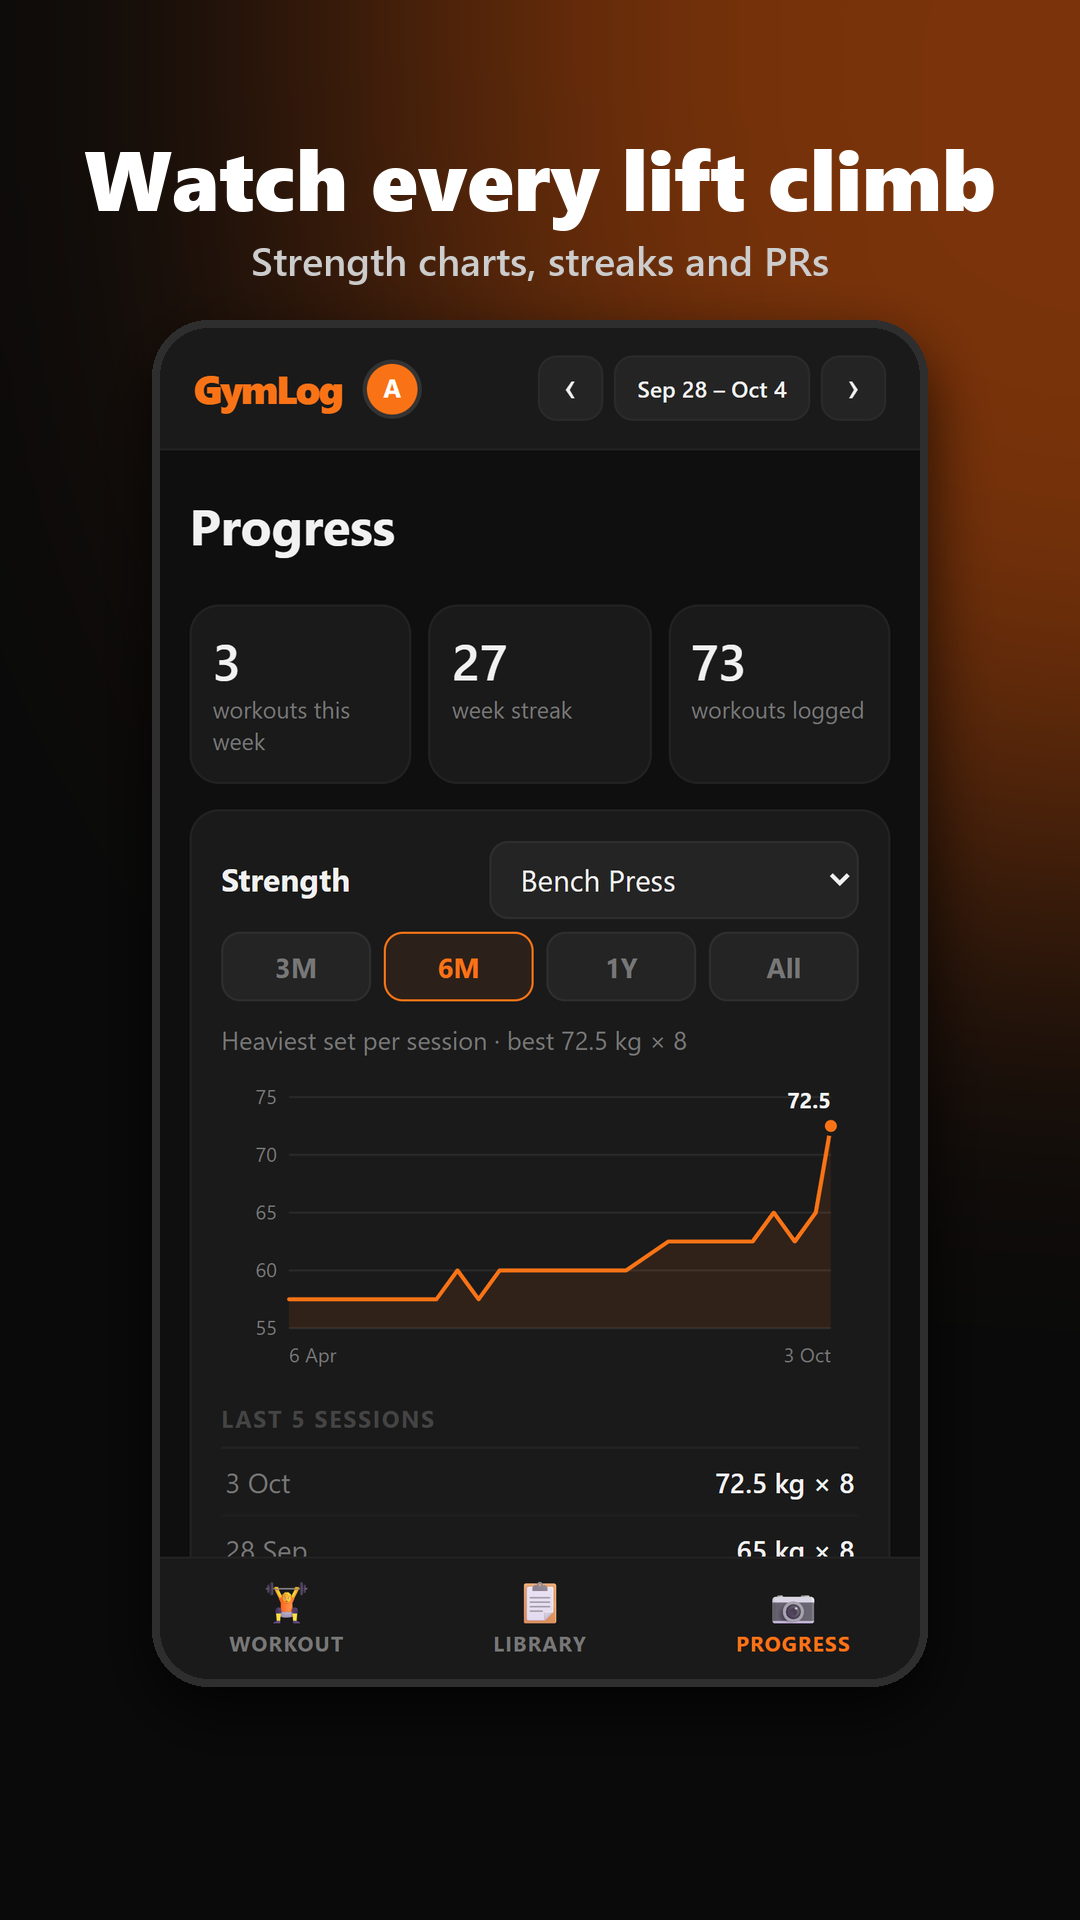
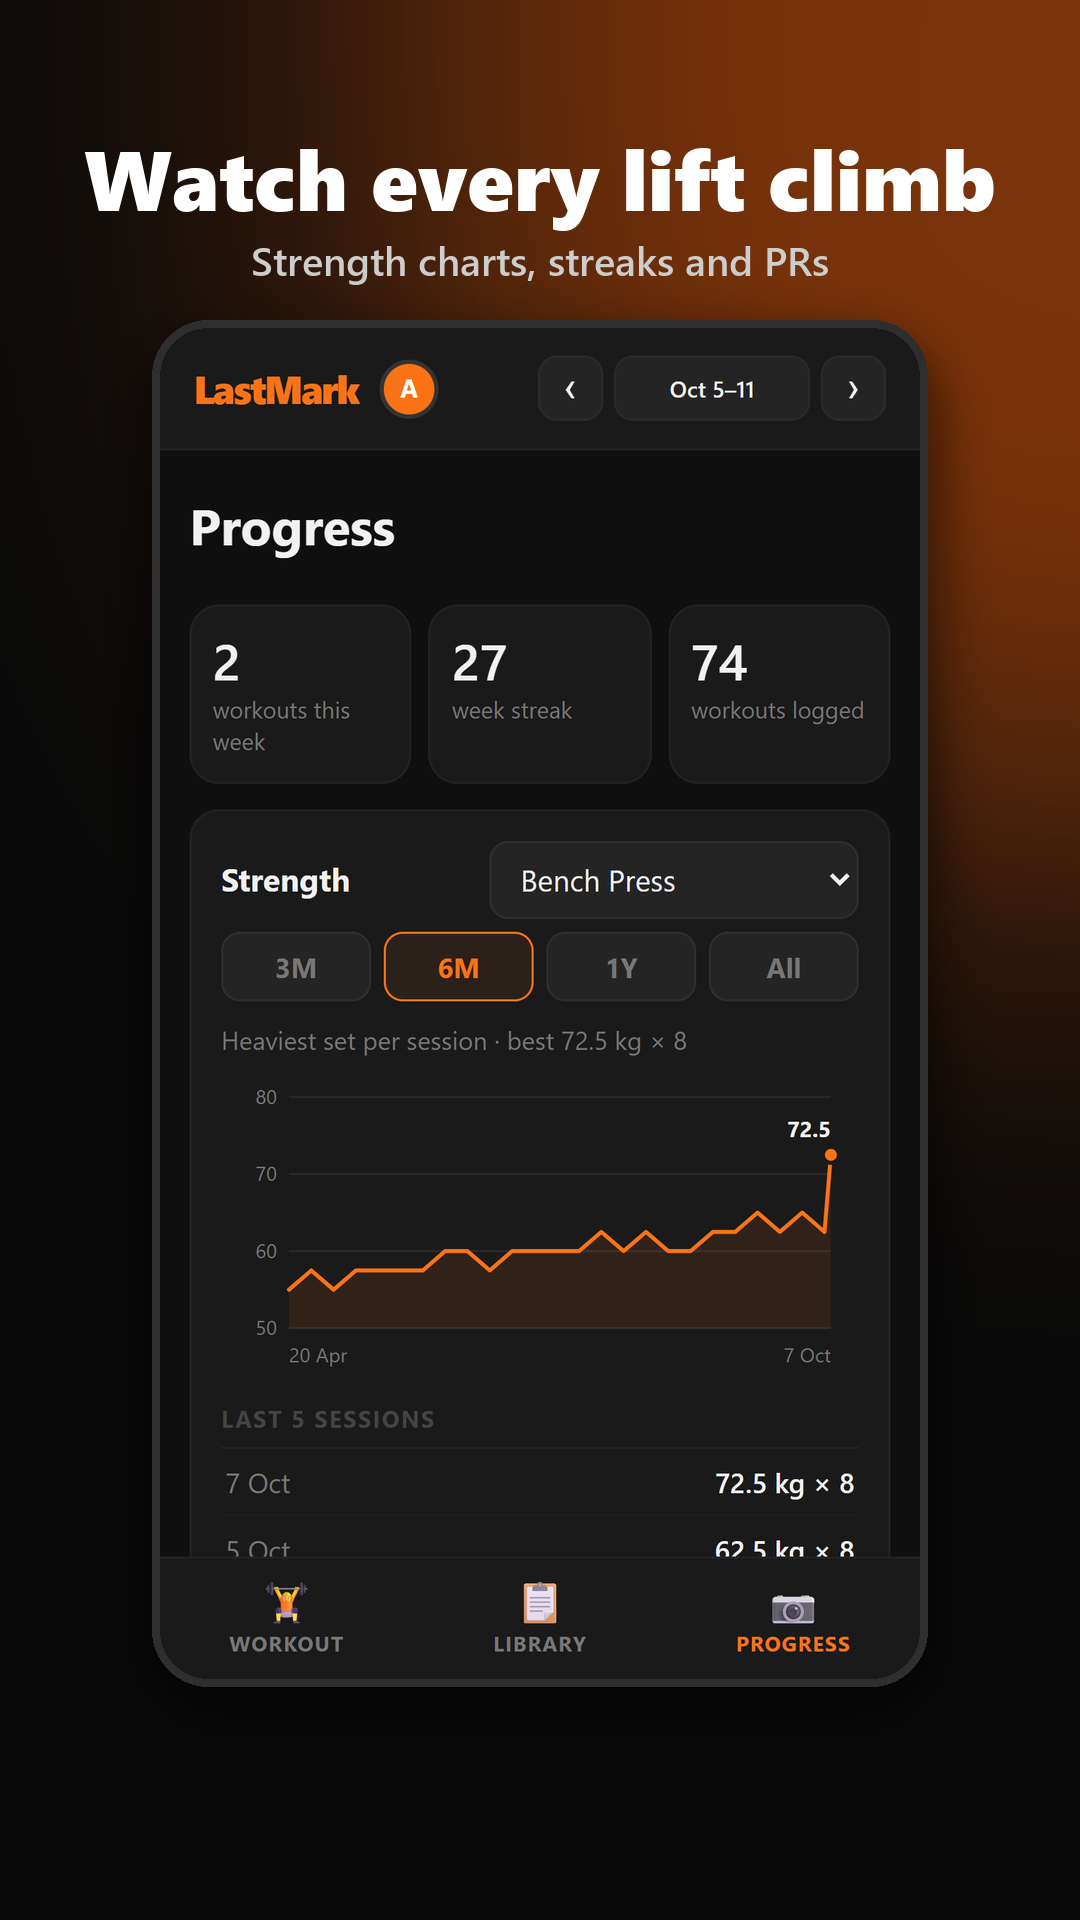
rename app to LastMark

diff --git a/index.html b/index.html
@@ -5,23 +5,23 @@
   <meta name="viewport" content="width=device-width, initial-scale=1.0, maximum-scale=1.0, user-scalable=no, viewport-fit=cover">
   <meta name="apple-mobile-web-app-capable" content="yes">
   <meta name="apple-mobile-web-app-status-bar-style" content="black">
-  <meta name="apple-mobile-web-app-title" content="GymLog">
+  <meta name="apple-mobile-web-app-title" content="LastMark">
   <meta name="theme-color" content="#0f0f0f">
   <link rel="apple-touch-icon" href="apple-touch-icon.png">
   <link rel="icon" type="image/png" sizes="192x192" href="icon-192.png">
   <link rel="manifest" href="manifest.json">
-  <title>GymLog — track your lifts, know what to beat</title>
+  <title>LastMark — track your lifts, know what to beat</title>
   <meta name="description" content="A free workout log that shows what you lifted last time, so you always know what to beat. One-tap routines, personal records and strength charts. Works offline and syncs across your devices.">
   <meta property="og:type" content="website">
-  <meta property="og:site_name" content="GymLog">
-  <meta property="og:title" content="GymLog — know what to beat, every set">
+  <meta property="og:site_name" content="LastMark">
+  <meta property="og:title" content="LastMark — know what to beat, every set">
   <meta property="og:description" content="A free workout log with one-tap routines, personal records and strength charts. Works offline.">
   <meta property="og:url" content="https://gymlog-7z5j.onrender.com/">
   <meta property="og:image" content="https://gymlog-7z5j.onrender.com/og.png">
   <meta property="og:image:width" content="1200">
   <meta property="og:image:height" content="630">
   <meta name="twitter:card" content="summary_large_image">
-  <meta name="twitter:title" content="GymLog — know what to beat, every set">
+  <meta name="twitter:title" content="LastMark — know what to beat, every set">
   <meta name="twitter:description" content="A free workout log with one-tap routines, personal records and strength charts. Works offline.">
   <meta name="twitter:image" content="https://gymlog-7z5j.onrender.com/og.png">
   <style>
@@ -1057,7 +1057,7 @@
 <!-- ── Auth Screen ── -->
 <div class="auth-screen" id="authScreen">
   <div class="auth-inner">
-  <div class="auth-logo">GymLog</div>
+  <div class="auth-logo">LastMark</div>
   <h1 class="auth-headline">Know what to beat,<br>every set.</h1>
   <p class="auth-tagline" id="authTagline">A free workout log that remembers your last session for you.</p>
 
@@ -1119,7 +1119,7 @@
 
   <header>
     <div class="header-left">
-      <span class="logo">GymLog</span>
+      <span class="logo">LastMark</span>
       <img class="user-avatar" id="userAvatar" src="" alt="account" title="Settings">
     </div>
     <div class="week-nav">
@@ -1423,7 +1423,7 @@
 <!-- ── Install Hint ── -->
 <div class="install-hint" id="installHint">
   <button class="install-x" id="btnInstallX" aria-label="Dismiss">✕</button>
-  <h4>Put GymLog on your home screen</h4>
+  <h4>Put LastMark on your home screen</h4>
   <p id="installText"></p>
   <button class="install-go" id="btnInstallGo">Install</button>
 </div>
@@ -1610,7 +1610,7 @@ document.getElementById('btnCloseSettings').addEventListener('click', () => {
 
 // Sign out
 document.getElementById('btnSignOut').addEventListener('click', async () => {
-  if (!confirm('Sign out of GymLog?')) return;
+  if (!confirm('Sign out of LastMark?')) return;
   hide('settingsOverlay');
   flushSaves();
   await signOut(auth);
@@ -2847,7 +2847,7 @@ async function shareTpl(id) {
   track('collection_shared');
   const url = `${location.origin}/?c=${sid}`;
   if (navigator.share) {
-    try { await navigator.share({ title: `${name} — GymLog`, text: `Here's my "${name}" routine on GymLog`, url }); return; }
+    try { await navigator.share({ title: `${name} — LastMark`, text: `Here's my "${name}" routine on LastMark`, url }); return; }
     catch (e) { if (e.name === 'AbortError') return; }
   }
   try { await navigator.clipboard.writeText(url); showToast('Link copied', 'success'); }
@@ -3742,7 +3742,7 @@ function drawStudio(c, data, style, format, photo) {
 
   // ── header: wordmark + date
   const top = P + 52;
-  text('GYMLOG', P, top, anton(54), accent, 'left', 3);
+  text('LASTMARK', P, top, anton(54), accent, 'left', 3);
   text(`${data.weekday.toUpperCase()}  ·  ${data.shortDate.toUpperCase()}`, W - P, top - 4, sans(26, 700), muted, 'right', 2);
 
   // ── blocks are stacked from the bottom up so the photo (or glow) stays visible at the top
@@ -3752,7 +3752,7 @@ function drawStudio(c, data, style, format, photo) {
   const { lifts, more } = data.share;
   let y = H - P;
   if (story) {
-    const left = data.streak >= 2 ? `${data.streak}-WEEK STREAK` : 'TRAINED WITH GYMLOG';
+    const left = data.streak >= 2 ? `${data.streak}-WEEK STREAK` : 'TRAINED WITH LASTMARK';
     text(left, P, y, sans(26, 800), muted, 'left', 3);
     text(location.host, W - P, y, sans(24, 600), muted, 'right');
     y -= 76;
@@ -3871,7 +3871,7 @@ function renderStudio() {
   document.getElementById('studioHint').textContent = {
     dark: 'Ready for your story or feed.',
     orange: 'Ready for your story or feed.',
-    photo: studio.photo ? 'Your photo stays on this phone — it isn’t uploaded to GymLog.' : '',
+    photo: studio.photo ? 'Your photo stays on this phone — it isn’t uploaded to LastMark.' : '',
   }[studio.style];
   try { localStorage.setItem('glog_share_style', JSON.stringify({ style: studio.style, format: studio.format })); } catch (_) {}
 }
@@ -3921,7 +3921,7 @@ document.getElementById('btnStudioShare').addEventListener('click', async () => 
   let blob;
   try { blob = canvasPng(document.getElementById('studioCanvas')); }
   catch (_) { showToast("Couldn't create the image", 'error'); return; }
-  const file = new File([blob], `gymlog-${studio.key}-${studio.style}.png`, { type: 'image/png' });
+  const file = new File([blob], `lastmark-${studio.key}-${studio.style}.png`, { type: 'image/png' });
   if (navigator.canShare && navigator.canShare({ files: [file] })) {
     try { await navigator.share({ files: [file] }); return; }
     catch (e) { if (e.name === 'AbortError') return; }
@@ -4028,13 +4028,13 @@ document.getElementById('btnExport').addEventListener('click', async e => {
   flushSaves();
   const gotAll = await loadAllPhotos();
   const data = {
-    app: 'GymLog', exportedAt: new Date().toISOString(), unit,
+    app: 'LastMark', exportedAt: new Date().toISOString(), unit,
     days: db,
     collections: templates.map(({ id, ...t }) => t),
     photos: photos.map(({ id, ...p }) => p),
     bodyWeight: (await loadBody(), bodyLog),
   };
-  downloadBlob(new Blob([JSON.stringify(data, null, 2)], { type: 'application/json' }), `gymlog-export-${dateKey(new Date())}.json`);
+  downloadBlob(new Blob([JSON.stringify(data, null, 2)], { type: 'application/json' }), `lastmark-export-${dateKey(new Date())}.json`);
   btn.disabled = false; btn.textContent = 'Export My Data';
   showToast(gotAll ? 'Export downloaded' : "Export downloaded — some photos couldn't be loaded", gotAll ? 'success' : 'warn', 4000);
 });
@@ -4044,7 +4044,7 @@ document.getElementById('btnExport').addEventListener('click', async e => {
 // ─────────────────────────────────────────
 const tourKey = () => `glog_tour_done_${currentUid}`;
 const TOUR_STEPS = [
-  { page: 'workout', title: 'Welcome to GymLog 👋',
+  { page: 'workout', title: 'Welcome to LastMark 👋',
     text: 'This tour shows you each part of the app, page by page. It takes about a minute. Use Next and Back to move through it.' },
   { page: 'workout', target: '#dayTabs', title: 'Your week',
     text: 'Each day has its own workout. Tap a day to plan or log it, and use ‹ › at the top to move between weeks. A dot means that day has exercises.' },
@@ -4063,7 +4063,7 @@ const TOUR_STEPS = [
   { page: 'library', target: '#starterWrap .starter-head', title: 'Starter routines',
     text: 'Ready-made routines to get you going. + Add moves one into your collections, and Remove all clears the ones you don’t need.' },
   { page: 'library', target: '#tplList .tpl-card', title: 'Edit and share',
-    text: 'Tap a collection to edit it. The 🔗 button inside creates a link, so a friend can add your routine to their own GymLog.' },
+    text: 'Tap a collection to edit it. The 🔗 button inside creates a link, so a friend can add your routine to their own LastMark.' },
   { page: 'progress', target: '#statRow', title: 'Stay consistent',
     text: 'Workouts this week, how many weeks in a row you’ve trained, and your total. Any week with a completed workout keeps the streak going.' },
   { page: 'progress', target: ['#chartBody .chart-plot', '#progressView .chart-card'], title: 'Strength chart',

diff --git a/privacy-policy.html b/privacy-policy.html
@@ -3,7 +3,7 @@
 <head>
   <meta charset="UTF-8">
   <meta name="viewport" content="width=device-width, initial-scale=1.0">
-  <title>Privacy Policy - GymLog</title>
+  <title>Privacy Policy - LastMark</title>
   <style>
     *, *::before, *::after { box-sizing: border-box; margin: 0; padding: 0; }
     body {
@@ -52,18 +52,18 @@
 <body>
 
   <div class="top-bar">
-    <a class="back-btn" href="/" aria-label="Back to GymLog">&#8592;</a>
+    <a class="back-btn" href="/" aria-label="Back to LastMark">&#8592;</a>
     <span class="top-bar-title">Privacy Policy</span>
   </div>
 
   <div class="page">
     <h1>Privacy Policy</h1>
-    <p class="updated">Last updated: 1 October 2026</p>
+    <p class="updated">Last updated: 7 October 2026</p>
 
-    <p>This Privacy Policy explains how GymLog ("GymLog", "we", "us" or "our") collects, uses, stores and discloses personal data when you use the GymLog web application (the "Service"). It should be read together with our <a href="/terms-of-service.html">Terms of Service</a>.</p>
+    <p>This Privacy Policy explains how LastMark ("LastMark", "we", "us" or "our") collects, uses, stores and discloses personal data when you use the LastMark web application (the "Service"). It should be read together with our <a href="/terms-of-service.html">Terms of Service</a>.</p>
 
     <h2>1. Who we are</h2>
-    <p>GymLog is operated by an independent developer based in Singapore. We are responsible for the personal data processed through the Service. You can contact us at <a href="mailto:pbarath29@gmail.com">pbarath29@gmail.com</a>.</p>
+    <p>LastMark is operated by an independent developer based in Singapore. We are responsible for the personal data processed through the Service. You can contact us at <a href="mailto:pbarath29@gmail.com">pbarath29@gmail.com</a>.</p>
 
     <h2>2. Personal data we collect</h2>
 
@@ -130,7 +130,7 @@
     <h2>5. When your data is disclosed</h2>
     <ul>
       <li><strong>Service providers:</strong> Google (Firebase Authentication, Cloud Firestore and Google Analytics for Firebase), and Render, which hosts the Service. They process data on our behalf to provide their services. Their handling of data is also governed by their own terms and privacy policies, including <a href="https://policies.google.com/privacy" target="_blank" rel="noopener">Google's Privacy Policy</a>.</li>
-      <li><strong>Shared collections:</strong> a collection you share can be viewed, and copied into their own account, by any signed-in GymLog user who has its link. The copy remains available until you delete your account.</li>
+      <li><strong>Shared collections:</strong> a collection you share can be viewed, and copied into their own account, by any signed-in LastMark user who has its link. The copy remains available until you delete your account.</li>
       <li><strong>Legal requirements:</strong> we may disclose personal data where required by law, regulation, legal process or a lawful request by a public authority, or where necessary to protect the rights, safety or property of our users, the public or us.</li>
     </ul>
     <p>We do not otherwise disclose your personal data to third parties.</p>

diff --git a/terms-of-service.html b/terms-of-service.html
@@ -3,7 +3,7 @@
 <head>
   <meta charset="UTF-8">
   <meta name="viewport" content="width=device-width, initial-scale=1.0">
-  <title>Terms of Service - GymLog</title>
+  <title>Terms of Service - LastMark</title>
   <style>
     *, *::before, *::after { box-sizing: border-box; margin: 0; padding: 0; }
     body {
@@ -51,18 +51,18 @@
 <body>
 
   <div class="top-bar">
-    <a class="back-btn" href="/" aria-label="Back to GymLog">&#8592;</a>
+    <a class="back-btn" href="/" aria-label="Back to LastMark">&#8592;</a>
     <span class="top-bar-title">Terms of Service</span>
   </div>
 
   <div class="page">
     <h1>Terms of Service</h1>
-    <p class="updated">Last updated: 1 October 2026</p>
+    <p class="updated">Last updated: 7 October 2026</p>
 
-    <p>These Terms of Service (the "Terms") govern your access to and use of the GymLog web application (the "Service"), operated by an independent developer based in Singapore ("GymLog", "we", "us" or "our"). By creating an account or using the Service, you agree to these Terms and to our <a href="/privacy-policy.html">Privacy Policy</a>. If you do not agree, do not use the Service.</p>
+    <p>These Terms of Service (the "Terms") govern your access to and use of the LastMark web application (the "Service"), operated by an independent developer based in Singapore ("LastMark", "we", "us" or "our"). By creating an account or using the Service, you agree to these Terms and to our <a href="/privacy-policy.html">Privacy Policy</a>. If you do not agree, do not use the Service.</p>
 
     <h2>1. The Service</h2>
-    <p>GymLog is a workout tracking application. It allows you to plan and record workouts, view figures from previous sessions, save and share workout collections, view personal records, streaks and strength charts, log your body weight, and store progress photos. The Service is currently provided free of charge. Features may be added, changed or removed over time.</p>
+    <p>LastMark is a workout tracking application. It allows you to plan and record workouts, view figures from previous sessions, save and share workout collections, view personal records, streaks and strength charts, log your body weight, and store progress photos. The Service is currently provided free of charge. Features may be added, changed or removed over time.</p>
 
     <h2>2. Eligibility</h2>
     <p>You must be at least 13 years old to use the Service. If you are under 18, you confirm that a parent or legal guardian has reviewed and agreed to these Terms on your behalf.</p>

diff --git a/sw.js b/sw.js
@@ -1,6 +1,6 @@
-// GymLog service worker — lets the app open with no signal.
+// LastMark service worker — lets the app open with no signal.
 // Bump CACHE when the list of precached files changes.
-const CACHE = 'gymlog-v2';
+const CACHE = 'lastmark-v3';
 const FIREBASE = 'https://www.gstatic.com/firebasejs/';
 
 const SHELL = [

diff --git a/store/listing.md b/store/listing.md
@@ -1,4 +1,4 @@
-# Google Play listing: GymLog
+# Google Play listing: LastMark
 
 Everything to paste into Play Console. The images are in this folder:
 - `icon-512.png`: app icon (512×512)
@@ -10,14 +10,14 @@ Everything to paste into Play Console. The images are in this folder:
 ## Main store listing
 
 **App name** (max 30 characters)
-GymLog: Workout Tracker
+LastMark: Gym Workout Log
 
 **Short description** (max 80 characters)
 Log your lifts, beat last time, and share workouts. Free and works offline.
 
 **Full description** (max 4000 characters)
 
-GymLog is a simple, fast workout log for people who lift. Plan your week, log every set, and always know what to beat.
+LastMark is a simple, fast workout log for people who lift. Plan your week, log every set, and always know what to beat.
 
 KNOW WHAT TO BEAT
 • Last session's weight and reps show under every set. Tap them to fill the set in.
@@ -51,7 +51,7 @@ YOUR DATA IS YOURS
 • Export all your workouts, routines, photos and body weight as a file at any time.
 • Delete your account and all your data from Settings.
 
-GymLog is a record-keeping tool and does not provide medical or fitness advice.
+LastMark is a record-keeping tool and does not provide medical or fitness advice.
 
 **App category:** Health & Fitness
 **Tags:** Workout tracker, Gym, Fitness tracker
@@ -99,7 +99,7 @@ Expected rating: Everyone / PEGI 3.
 **Is all of the user data collected by your app encrypted in transit?** Yes (HTTPS/TLS)
 **Do you provide a way for users to request that their data is deleted?** Yes, in the app (Settings > Delete Account) and by email.
 
-Data **shared** with third parties: **None.** Google (Firebase) and Render process data on GymLog's behalf as service providers, which Play does not count as sharing.
+Data **shared** with third parties: **None.** Google (Firebase) and Render process data on LastMark's behalf as service providers, which Play does not count as sharing.
 
 Data **collected**:
 
@@ -123,4 +123,4 @@ Notes:
 ---
 
 ## Release notes (first release)
-First release of GymLog on Google Play: log your workouts, track PRs and progress, and share your sessions.
+First release of LastMark on Google Play: log your workouts, track PRs and progress, and share your sessions.

diff --git a/README.md b/README.md
@@ -1,6 +1,6 @@
-# GymLog
+# LastMark
 
-GymLog is a personal workout tracking web app. You log your lifts day by day, organized by muscle groups, and the app keeps everything synced across your devices.
+LastMark is a personal workout tracking web app. You log your lifts day by day, organized by muscle groups, and the app keeps everything synced across your devices.
 
 ## What it does
 
@@ -48,7 +48,7 @@ If you change the Firebase version in `index.html`, change it in `sw.js` too and
 
 The Android app is a Trusted Web Activity: a small native package that opens https://gymlog-7z5j.onrender.com/ full screen in Chrome. It runs this same site, so **every deploy to Render updates the app too**. A new Play release is only needed to change the app's name, icon, package or signing.
 
-- **Package:** generated with [PWABuilder](https://www.pwabuilder.com/) (Android). Package ID: `com.gymlog.app` (whatever was chosen there; it can't be changed after the first upload).
+- **Package:** generated with [PWABuilder](https://www.pwabuilder.com/) (Android). Package ID: `com.lastmark.app` (whatever was chosen there; it can't be changed after the first upload).
 - **Signing key:** PWABuilder produces a `.keystore` file and passwords. Keep them **outside this repo** and backed up. Losing them means the app can't be updated.
 - **Digital Asset Links:** `.well-known/assetlinks.json` proves the site and the app belong together. Without it the app shows a browser address bar. It must list the package ID and the SHA-256 fingerprints of **both** the upload key (from PWABuilder) and the app-signing key (Play Console > Setup > App signing). Check it at `https://gymlog-7z5j.onrender.com/.well-known/assetlinks.json`.
 - **Don't change** `id` or `start_url` in `manifest.json`, or move the site to another domain, without updating the Android package and assetlinks.
